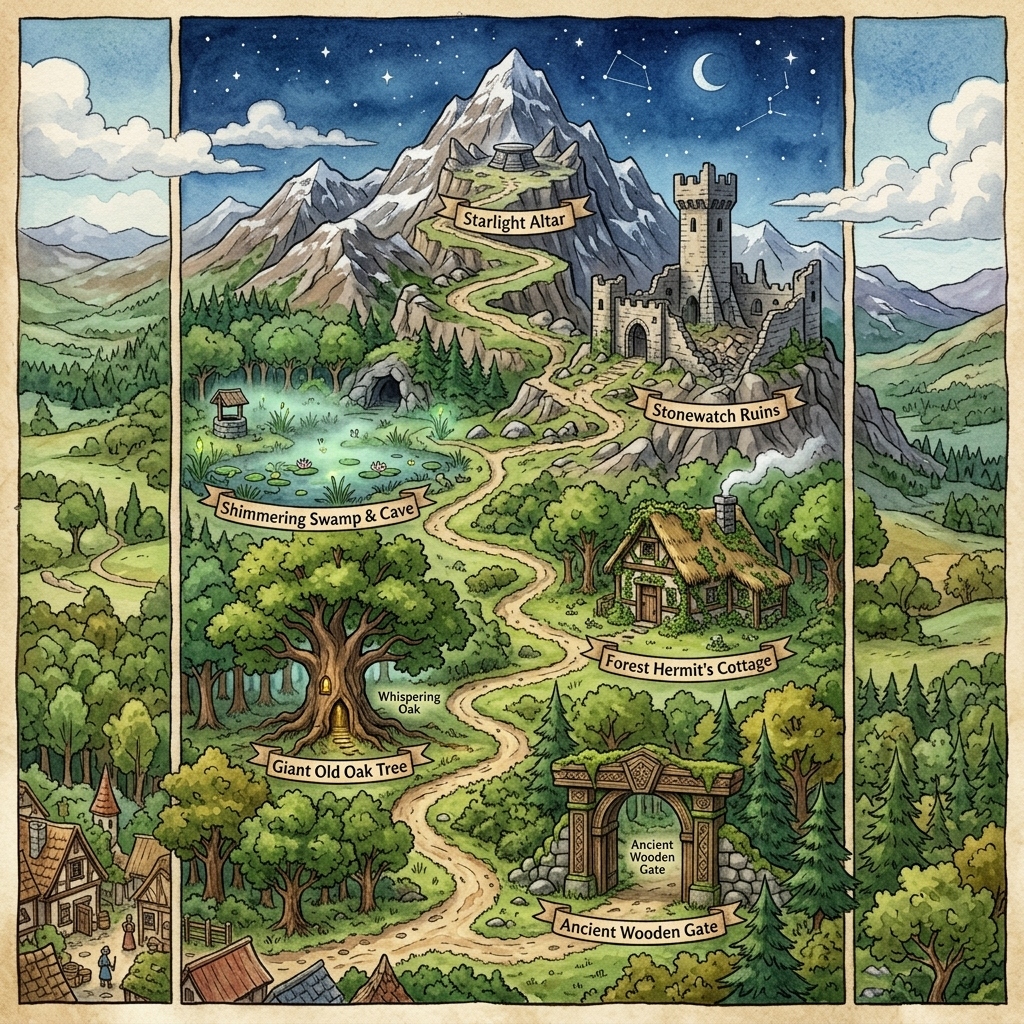
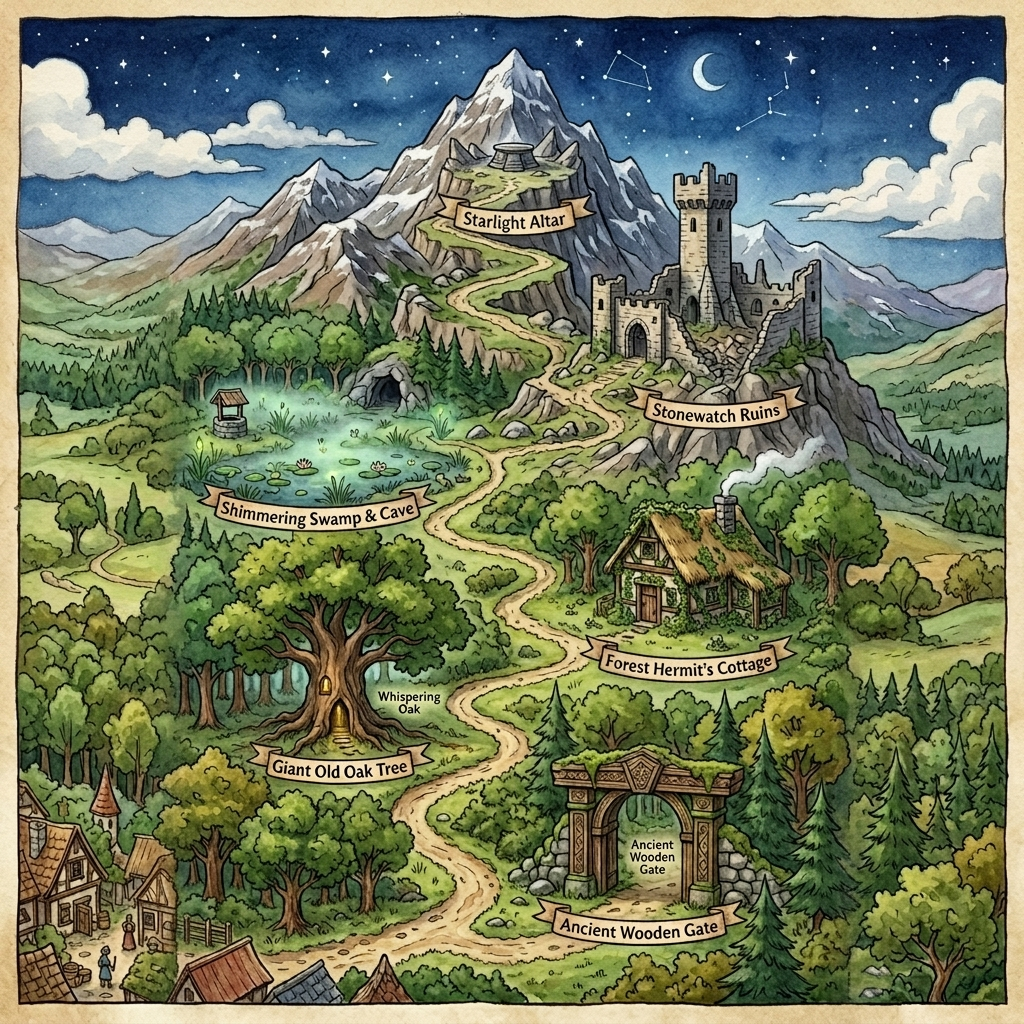
Update map style and add debug coordinate overlay

diff --git a/lib/features/story_game/screens/point_and_click_screen.dart b/lib/features/story_game/screens/point_and_click_screen.dart
@@ -58,6 +58,7 @@ class _PointAndClickScreenState extends State<PointAndClickScreen> with SingleTi
     });
   }
   bool _showHints = false;
+  Offset? _debugTapOffset;
   String _dialogText = "";
   String _currentSubroom = "exterior"; // Used for sub-rooms (interior vs exterior)
 
@@ -1784,7 +1785,31 @@ class _PointAndClickScreenState extends State<PointAndClickScreen> with SingleTi
                     children: [
                       IconButton(
                         icon: const Icon(Icons.arrow_back, color: Colors.white),
-                        onPressed: () => Navigator.pop(context),
+                        onPressed: () {
+                          if (widget.nodeId == 'node3' && _currentSubroom == 'interior') {
+                            setState(() {
+                              _currentSubroom = 'exterior';
+                              _dialogText = "Stojíš venku před chýší.";
+                            });
+                          } else if (widget.nodeId == 'node4' && _currentSubroom == 'scale_zoom') {
+                            setState(() {
+                              _currentSubroom = 'barn';
+                              _dialogText = "Uvnitř stodoly.";
+                            });
+                          } else if (widget.nodeId == 'node4' && (_currentSubroom == 'cave' || _currentSubroom == 'barn' || _currentSubroom == 'shrine')) {
+                            setState(() {
+                              _currentSubroom = 'exterior';
+                              _dialogText = "Stojíš u bažiny.";
+                            });
+                          } else if (widget.nodeId == 'node5' && (_currentSubroom == 'library' || _currentSubroom == 'armory')) {
+                            setState(() {
+                              _currentSubroom = 'exterior';
+                              _dialogText = "Nádvoří pevnosti.";
+                            });
+                          } else {
+                            Navigator.pop(context);
+                          }
+                        },
                       ),
                       const SizedBox(width: 8),
                       Expanded(
@@ -1814,13 +1839,6 @@ class _PointAndClickScreenState extends State<PointAndClickScreen> with SingleTi
                           setState(() {
                             _showHints = !_showHints;
                           });
-                          Future.delayed(const Duration(seconds: 3), () {
-                            if (mounted) {
-                              setState(() {
-                                _showHints = false;
-                              });
-                            }
-                          });
                         },
                         tooltip: 'Ukázat nápovědu',
                       ),
@@ -1835,8 +1853,20 @@ class _PointAndClickScreenState extends State<PointAndClickScreen> with SingleTi
                       final width = constraints.maxWidth;
                       final height = constraints.maxHeight;
 
-                      return Stack(
-                        children: [
+                      return GestureDetector(
+                        behavior: HitTestBehavior.translucent,
+                        onTapDown: (details) {
+                          if (_showHints) {
+                            setState(() {
+                              _debugTapOffset = Offset(
+                                details.localPosition.dx / width,
+                                details.localPosition.dy / height,
+                              );
+                            });
+                          }
+                        },
+                        child: Stack(
+                          children: [
                           // Background Image
                           Positioned.fill(
                             child: ColorFiltered(
@@ -2087,8 +2117,45 @@ class _PointAndClickScreenState extends State<PointAndClickScreen> with SingleTi
                                 ),
                               ),
                             ),
+                          if (_showHints && _debugTapOffset != null) ...[
+                            Positioned(
+                              left: _debugTapOffset!.dx * width - 6,
+                              top: _debugTapOffset!.dy * height - 6,
+                              width: 12,
+                              height: 12,
+                              child: IgnorePointer(
+                                child: Container(
+                                  decoration: const BoxDecoration(
+                                    color: Colors.red,
+                                    shape: BoxShape.circle,
+                                  ),
+                                ),
+                              ),
+                            ),
+                            Positioned(
+                              top: 16,
+                              left: 16,
+                              child: Container(
+                                padding: const EdgeInsets.symmetric(horizontal: 10, vertical: 6),
+                                decoration: BoxDecoration(
+                                  color: Colors.black.withOpacity(0.85),
+                                  borderRadius: BorderRadius.circular(10),
+                                  border: Border.all(color: Colors.cyanAccent, width: 1.5),
+                                ),
+                                child: Text(
+                                  "SOUŘADNICE: x: ${_debugTapOffset!.dx.toStringAsFixed(3)}, y: ${_debugTapOffset!.dy.toStringAsFixed(3)}",
+                                  style: const TextStyle(
+                                    color: Colors.cyanAccent,
+                                    fontSize: 12,
+                                    fontWeight: FontWeight.bold,
+                                  ),
+                                ),
+                              ),
+                            ),
+                          ],
                         ],
-                      );
+                      ),
+                    );
                     },
                   ),
                 ),

diff --git a/lib/features/story_game/services/story_game_service.dart b/lib/features/story_game/services/story_game_service.dart
@@ -28,35 +28,35 @@ class StoryGameService {
       name: 'Starý dub',
       description: 'Prastarý strom s vyřezanými magickými symboly.',
       requiredDistance: 400,
-      mapPosition: const Offset(0.5, 0.7),
+      mapPosition: const Offset(0.55, 0.72),
     ),
     QuestNode(
       id: 'node3',
       name: 'Zřícenina chýše',
       description: 'Zřícenina domku bývalého hajného.',
       requiredDistance: 1000,
-      mapPosition: const Offset(0.3, 0.5),
+      mapPosition: const Offset(0.25, 0.6),
     ),
     QuestNode(
       id: 'node4',
       name: 'Bažina & Studna',
       description: 'Svatyně skrytá v mlžném oparu bažin.',
       requiredDistance: 2500,
-      mapPosition: const Offset(0.7, 0.4),
+      mapPosition: const Offset(0.7, 0.5),
     ),
     QuestNode(
       id: 'node5',
       name: 'Zapomenutá pevnost',
       description: 'Opuštěná kamenná pevnost s vysokou věží.',
       requiredDistance: 4500,
-      mapPosition: const Offset(0.4, 0.2),
+      mapPosition: const Offset(0.4, 0.38),
     ),
     QuestNode(
       id: 'node6',
       name: 'Kamenný oltář',
       description: 'Vrcholek skály s rituálním kruhem.',
       requiredDistance: 6000,
-      mapPosition: const Offset(0.8, 0.1),
+      mapPosition: const Offset(0.75, 0.26),
     ),
   ];
 
